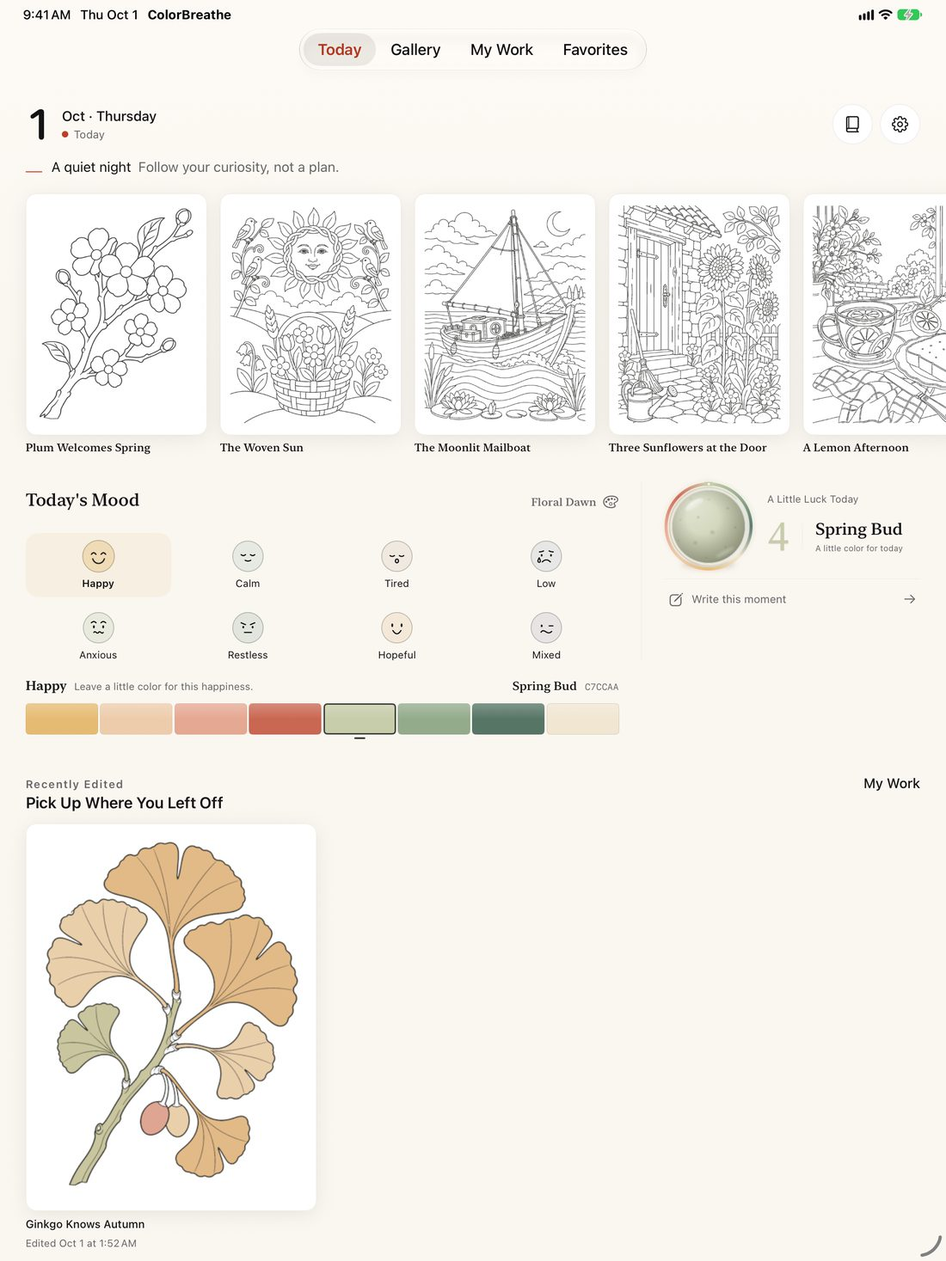
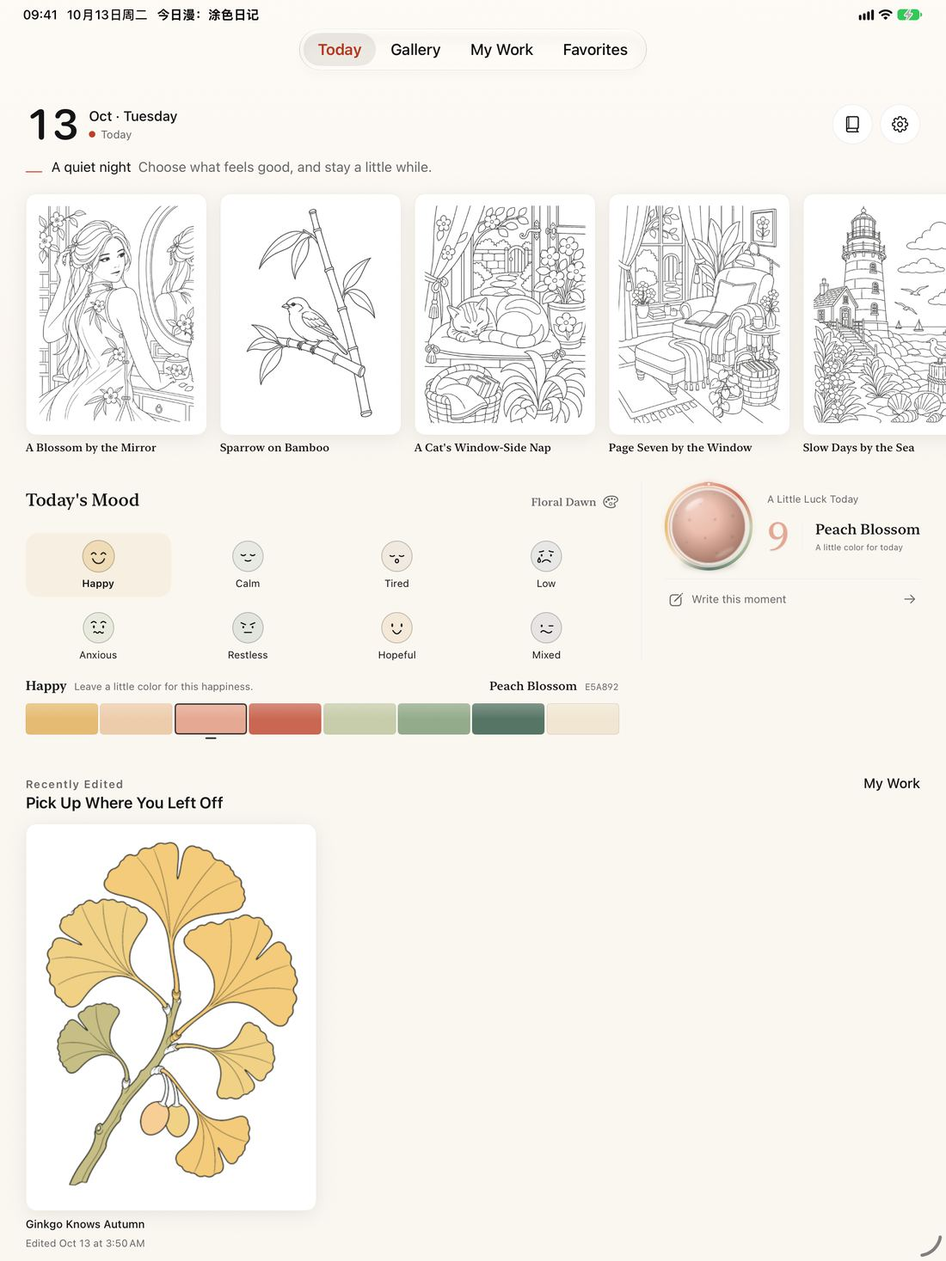
支持、隐私、条款与产品页更新到 2.2：14 本画册 168 幅画稿、辅助上色与彩珠弹画说明、截图换为 2.2
- 免费每日画稿改为 49 幅轮换；完整创作权限为 14 本 168 幅
- 新增辅助上色常见问题（中英），英文新增彩珠弹画说明（中国大陆商店不提供）
- 隐私政策列入辅助上色记录与次数；条款更新画稿与声音来源说明
- 首页与 iPad 截图换成 2.2 界面

diff --git a/en/terms.html b/en/terms.html
@@ -13,13 +13,13 @@
 </div></header>
 
 <main class="wrap"><h1>ColorBreathe Terms of Use</h1>
-<p>Updated September 26, 2026, for version 2.1. Version 2.0 remains the free historical release; version 2.1 introduces optional Full Access.</p>
-<p>The app uses <a href="https://www.apple.com/legal/internet-services/itunes/dev/stdeula/">Apple&#x27;s Standard End User License Agreement</a>. Artwork and audio sources and licenses are available in Settings → Artwork &amp; Sound Credits. Ensure you have permission to use images you import; the app does not transfer copyright in source material.</p>
-<p>Artwork and diaries are stored locally. Use Data &amp; Backup to preserve important content. Read our Privacy Policy for data handling details. Support: <a href="mailto:306116317@qq.com">306116317@qq.com</a>.</p><h2>Free features and Full Access</h2><p>Free access includes 12 starter drawings, one rotating daily page from a fixed 24-page selection, every brush, continued editing of works already started, diaries, backups and standard 2048-pixel PNG export without app branding. Replays and share cards include light app branding. New drawings outside the free selection, new blank canvases, photo/line-art imports and new copies of restricted works require Full Access. Full Access also includes 4096-pixel and transparent PNGs and the option to remove app branding from replays and share cards. Required artwork-license credits remain.</p><p>A drawing becomes a continued work when you actually paint in it; merely viewing or favoriting a drawing does not unlock future access. Trial expiry never deletes your drawings or diary. Existing works stay editable, but do not unlock new copies of otherwise restricted drawings.</p><h2>Plans, trial and renewal</h2><p>Mainland China plans are CNY 9.90 per month and CNY 49 per year. Lifetime access is CNY 99 for the first 90 days after the China launch, then CNY 199. US plans are USD 2.90 per month and USD 9.90 per year; new lifetime purchases are not offered in the US. Product availability, actual prices and scheduled offer dates are subject to Apple's purchase confirmation and storefront arrangements. Your Apple Account storefront determines the market, not the app's interface language. Changing storefronts does not revoke a lifetime purchase you already own.</p><p>Monthly and annual plans offer a 7-day free trial only when Apple confirms eligibility, once per subscription group and with your confirmation. Installing the app alone does not start a trial or a charge. After the trial, the selected subscription renews automatically at the displayed price unless cancelled at least 24 hours before the current period ends.</p><p>Lifetime access is a one-time purchase with no automatic renewal and includes future standard features and drawing collections in this app. Buying lifetime access does not cancel an existing subscription. Manage or cancel that subscription through your Apple Account to avoid overlapping charges. Family Sharing is not offered for these purchases.</p><h2>Invitation: one year of Full Access</h2><p>Open Settings → Full Access → Redeem Invitation Code and use an Apple offer code issued for this campaign. Redemption requires an internet connection and an Apple Account. Only an Apple-verified transaction unlocks access. Successful redemption grants one free year of Full Access from the Apple transaction date, measured as a calendar anniversary in UTC. Access returns to free features after that year, without automatic renewal or charges. Your artwork and diary remain.</p><p>The deadline for redeeming a code is separate from the one-year access period after redemption. Refer to the invitation terms and Apple's eligibility confirmation. Each Apple Account can redeem one code per offer; do not publicly share a one-time-use code. An invitation does not cancel or pause an existing auto-renewing subscription. Cancel that subscription in your Apple Account if you do not want its charges to continue.</p><h2>Restore, manage and refunds</h2><p>Open Settings → Full Access → Restore Purchases using the Apple Account used to buy. Manage subscriptions there or in Apple account settings. Purchase, invitation redemption and restore need access to Apple services; verified entitlements are cached on-device for offline use. An expired or refunded purchase returns to free features. If a purchase is awaiting approval, access begins only after approval. Apple manages refund requests at <a href="https://reportaproblem.apple.com/">Report a Problem</a>.</p><h2>Artwork and playful activities</h2><p>Built-in drawings include AI-assisted artwork. Sources and licenses are listed in Settings. Marble Art progress, daily goals and Bead Box keepsakes stay on the device. These activities and mood records are for everyday relaxation and do not provide diagnosis or treatment.</p></main>
+<p>Updated October 12, 2026, for version 2.2. Version 2.0 remains the free historical release; optional Full Access was introduced in version 2.1.</p>
+<p>The app uses <a href="https://www.apple.com/legal/internet-services/itunes/dev/stdeula/">Apple&#x27;s Standard End User License Agreement</a>. Built-in drawings are prepared for this project, including AI-assisted artwork and new compositions of classic stories. Piano, marble, brush and ambient sounds are composed and synthesized by project programs. Production and source information is available in Settings → Artwork &amp; Sound Credits. Ensure you have permission to use images you import; the app does not transfer copyright in source material.</p>
+<p>Artwork and diaries are stored locally. Use Data &amp; Backup to preserve important content. Read our Privacy Policy for data handling details. Support: <a href="mailto:306116317@qq.com">306116317@qq.com</a>.</p><h2>Free features and Full Access</h2><p>Free access includes 12 starter drawings, one free page each day from a rotating selection of 49 pages, every brush, continued editing of works already started, diaries, backups and standard 2048-pixel PNG export without app branding. Replays and share cards include light app branding. New drawings outside the free selection, new blank canvases, photo/line-art imports and new copies of restricted works require Full Access. Full Access also includes 4096-pixel and transparent PNGs and the option to remove app branding from replays and share cards. Required artwork-license credits remain.</p><p>A drawing becomes a continued work when you actually paint in it; merely viewing or favoriting a drawing does not unlock future access. Trial expiry never deletes your drawings or diary. Existing works stay editable, but do not unlock new copies of otherwise restricted drawings.</p><h2>Plans, trial and renewal</h2><p>Mainland China plans are CNY 9.90 per month and CNY 49 per year. Lifetime access is CNY 99 for the first 90 days after the China launch, then CNY 199. US plans are USD 2.90 per month and USD 9.90 per year; new lifetime purchases are not offered in the US. Product availability, actual prices and scheduled offer dates are subject to Apple's purchase confirmation and storefront arrangements. Your Apple Account storefront determines the market, not the app's interface language. Changing storefronts does not revoke a lifetime purchase you already own.</p><p>Monthly and annual plans offer a 7-day free trial only when Apple confirms eligibility, once per subscription group and with your confirmation. Installing the app alone does not start a trial or a charge. After the trial, the selected subscription renews automatically at the displayed price unless cancelled at least 24 hours before the current period ends.</p><p>Lifetime access is a one-time purchase with no automatic renewal and includes future standard features and drawing collections in this app. Buying lifetime access does not cancel an existing subscription. Manage or cancel that subscription through your Apple Account to avoid overlapping charges. Family Sharing is not offered for these purchases.</p><h2>Invitation: one year of Full Access</h2><p>Open Settings → Full Access → Redeem Invitation Code and use an Apple offer code issued for this campaign. Redemption requires an internet connection and an Apple Account. Only an Apple-verified transaction unlocks access. Successful redemption grants one free year of Full Access from the Apple transaction date, measured as a calendar anniversary in UTC. Access returns to free features after that year, without automatic renewal or charges. Your artwork and diary remain.</p><p>The deadline for redeeming a code is separate from the one-year access period after redemption. Refer to the invitation terms and Apple's eligibility confirmation. Each Apple Account can redeem one code per offer; do not publicly share a one-time-use code. An invitation does not cancel or pause an existing auto-renewing subscription. Cancel that subscription in your Apple Account if you do not want its charges to continue.</p><h2>Restore, manage and refunds</h2><p>Open Settings → Full Access → Restore Purchases using the Apple Account used to buy. Manage subscriptions there or in Apple account settings. Purchase, invitation redemption and restore need access to Apple services; verified entitlements are cached on-device for offline use. An expired or refunded purchase returns to free features. If a purchase is awaiting approval, access begins only after approval. Apple manages refund requests at <a href="https://reportaproblem.apple.com/">Report a Problem</a>.</p><h2>Artwork and playful activities</h2><p>Built-in drawings include AI-assisted artwork. Sources and licenses are listed in Settings. Marble Art progress, daily goals and Bead Box keepsakes stay on the device. These activities and mood records are for everyday relaxation and do not provide diagnosis or treatment.</p><h2>Assisted coloring</h2><p>Assisted coloring uses the same access as each drawing, with no separate subscription. Free drawings, the daily free page and works you have started can use it. Individual regions use reviewed suggested colors within the regular coloring canvas, sharing brushes, zoom, undo, redo, saving and export.</p></main>
 
 <footer><div class="wrap">
   <div class="links"><a href="support.html">Support</a><a href="privacy.html">Privacy</a><a href="terms.html">Terms</a><a href="https://sanctaz.github.io/colorbreathe-support/en/">About the app</a></div>
-  <p>ColorBreathe: Coloring Diary · 今日漫 · Version 2.1 · <a href="mailto:306116317@qq.com">306116317@qq.com</a> · © 2026 fanqi zheng</p>
+  <p>ColorBreathe: Coloring Diary · 今日漫 · Version 2.2 · <a href="mailto:306116317@qq.com">306116317@qq.com</a> · © 2026 fanqi zheng</p>
 </div></footer>
 </body>
 </html>

diff --git a/terms.html b/terms.html
@@ -13,13 +13,13 @@
 </div></header>
 
 <main class="wrap"><h1>今日漫使用条款</h1>
-<p>更新日期：2026-09-26，适用于版本 2.1。v2.0 为历史免费最终版；v2.1 新增可选的完整创作权限。</p>
-<p>本 App 采用 <a href="https://www.apple.com/legal/internet-services/itunes/dev/stdeula/">Apple 标准最终用户许可协议</a>。画稿与声音的来源及授权见 App 设置 → 画作与声音来源。导入图片时，请确保拥有相应使用权限；App 不转移原素材的版权。</p>
-<p>作品和日记在本机保存。请使用数据与备份保存重要内容。隐私及本机处理方式详见隐私政策。支持邮箱：<a href="mailto:306116317@qq.com">306116317@qq.com</a>。</p><h2>免费功能与完整创作权限</h2><p>免费版保留 12 幅入门画稿、固定 24 幅中每日轮换的一页、全部笔刷、已开始作品的继续编辑、日记、备份，以及不含 App 品牌标记的 2048 像素普通 PNG。回放视频与分享卡保留轻量 App 品牌标记。免费范围外的新画稿、新建自由画布、照片与线稿导入、受限画稿的新副本需要完整权限；完整权限也提供 4096 像素与透明 PNG，以及移除回放和分享卡 App 品牌标记的选项。素材授权要求的署名始终保留。</p><p>实际落笔或填色后，作品可作为已开始作品继续编辑；仅打开、预览或收藏不取得后续使用资格。试用到期不会删除作品或日记。保留的旧作品不解锁原本受限画稿的新副本。</p><h2>方案、试用与续费</h2><p>中国大陆方案为每月 ¥9.90、每年 ¥49；永久买断在中国区正式上线后的首 90 天为 ¥99，活动结束后调整为 ¥199。美国区为每月 US$2.90、每年 US$9.90，不提供新的买断购买。商品可用性、实际价格及活动日期以 Apple 购买确认页和商店安排为准。地区由 Apple 账户的 App Store 商店决定，切换 App 语言不改变购买地区或货币。已购买的买断权益不会因切换地区而取消。</p><p>月订阅与年订阅可向 Apple 确认符合资格的用户提供 7 天免费试用，每个订阅组限一次，必须经你确认。仅安装 App 不会开始试用或扣费。试用结束后按所选方案显示的价格自动续费；如不希望续费，请至少在当前周期结束前 24 小时取消。</p><p>买断为一次付款，不自动续费，包含本 App 后续标准功能与画册更新。买断不会自动取消已有订阅；请在 Apple 账户中管理和取消原订阅，避免重复扣费。这些购买不提供家人共享。</p><h2>邀请码：一年完整创作权限</h2><p>在设置 → 完整创作权限 → 兑换邀请码，使用本活动发放的 Apple 优惠兑换码。兑换需联网并使用 Apple 账户；只有 Apple 验证成功的交易才会解锁。成功兑换后，从 Apple 交易日期起可免费使用一年完整创作功能，按 UTC 公历周年计算；一年到期后回到免费功能，不自动续费、不自动扣款，作品和日记保留。</p><p>邀请码的可兑换截止日期与兑换后的一年使用期分别计算，以领取时说明和 Apple 确认的资格为准。每个 Apple 账户在同一优惠活动中限兑换一次；请勿公开一次性邀请码。邀请码不会取消或暂停已有的自动续期订阅；若不希望原订阅继续扣费，请自行在 Apple 账户中取消。</p><h2>恢复、管理与退款</h2><p>使用购买时的 Apple 账户，在设置 → 完整创作权限 → 恢复购买。可从同一页面或 Apple 账户设置管理订阅。购买、邀请码兑换及恢复需连接 Apple 服务；经验证的权限由 StoreKit 在本机缓存以支持离线使用。购买过期或退款后回到免费功能；待批准的购买仅在批准后解锁。退款由 Apple 处理，可前往 <a href="https://reportaproblem.apple.com/">报告问题</a>提交申请。</p><h2>画稿与互动内容</h2><p>内置画稿含 AI 辅助制作内容，来源与授权见设置。彩珠弹画进度、每日小目标及珠匣收藏保存在本机。互动玩法与心情记录用于日常放松，不提供诊断或治疗。</p></main>
+<p>更新日期：2026-10-12，适用于版本 2.2。v2.0 为历史免费最终版；可选的完整创作权限自 v2.1 起提供。</p>
+<p>本 App 采用 <a href="https://www.apple.com/legal/internet-services/itunes/dev/stdeula/">Apple 标准最终用户许可协议</a>。内置画稿为本项目制作，含 AI 辅助制作和古典故事新构图；钢琴、滚珠、笔刷及环境音由项目程序创作和合成。制作与来源说明见 App 设置 → 画作与声音来源。导入图片时，请确保拥有相应使用权限；App 不转移原素材的版权。</p>
+<p>作品和日记在本机保存。请使用数据与备份保存重要内容。隐私及本机处理方式详见隐私政策。支持邮箱：<a href="mailto:306116317@qq.com">306116317@qq.com</a>。</p><h2>免费功能与完整创作权限</h2><p>免费版保留 12 幅入门画稿、每天从 49 幅中轮换的一页免费画稿、全部笔刷、已开始作品的继续编辑、日记、备份，以及不含 App 品牌标记的 2048 像素普通 PNG。回放视频与分享卡保留轻量 App 品牌标记。免费范围外的新画稿、新建自由画布、照片与线稿导入、受限画稿的新副本需要完整权限；完整权限也提供 4096 像素与透明 PNG，以及移除回放和分享卡 App 品牌标记的选项。素材授权要求的署名始终保留。</p><p>实际落笔或填色后，作品可作为已开始作品继续编辑；仅打开、预览或收藏不取得后续使用资格。试用到期不会删除作品或日记。保留的旧作品不解锁原本受限画稿的新副本。</p><h2>方案、试用与续费</h2><p>中国大陆方案为每月 ¥9.90、每年 ¥49；永久买断在中国区正式上线后的首 90 天为 ¥99，活动结束后调整为 ¥199。美国区为每月 US$2.90、每年 US$9.90，不提供新的买断购买。商品可用性、实际价格及活动日期以 Apple 购买确认页和商店安排为准。地区由 Apple 账户的 App Store 商店决定，切换 App 语言不改变购买地区或货币。已购买的买断权益不会因切换地区而取消。</p><p>月订阅与年订阅可向 Apple 确认符合资格的用户提供 7 天免费试用，每个订阅组限一次，必须经你确认。仅安装 App 不会开始试用或扣费。试用结束后按所选方案显示的价格自动续费；如不希望续费，请至少在当前周期结束前 24 小时取消。</p><p>买断为一次付款，不自动续费，包含本 App 后续标准功能与画册更新。买断不会自动取消已有订阅；请在 Apple 账户中管理和取消原订阅，避免重复扣费。这些购买不提供家人共享。</p><h2>邀请码：一年完整创作权限</h2><p>在设置 → 完整创作权限 → 兑换邀请码，使用本活动发放的 Apple 优惠兑换码。兑换需联网并使用 Apple 账户；只有 Apple 验证成功的交易才会解锁。成功兑换后，从 Apple 交易日期起可免费使用一年完整创作功能，按 UTC 公历周年计算；一年到期后回到免费功能，不自动续费、不自动扣款，作品和日记保留。</p><p>邀请码的可兑换截止日期与兑换后的一年使用期分别计算，以领取时说明和 Apple 确认的资格为准。每个 Apple 账户在同一优惠活动中限兑换一次；请勿公开一次性邀请码。邀请码不会取消或暂停已有的自动续期订阅；若不希望原订阅继续扣费，请自行在 Apple 账户中取消。</p><h2>恢复、管理与退款</h2><p>使用购买时的 Apple 账户，在设置 → 完整创作权限 → 恢复购买。可从同一页面或 Apple 账户设置管理订阅。购买、邀请码兑换及恢复需连接 Apple 服务；经验证的权限由 StoreKit 在本机缓存以支持离线使用。购买过期或退款后回到免费功能；待批准的购买仅在批准后解锁。退款由 Apple 处理，可前往 <a href="https://reportaproblem.apple.com/">报告问题</a>提交申请。</p><h2>画稿与互动内容</h2><p>内置画稿含 AI 辅助制作内容，来源与授权见设置。彩珠弹画进度、每日小目标及珠匣收藏保存在本机。互动玩法与心情记录用于日常放松，不提供诊断或治疗。</p><h2>辅助上色</h2><p>辅助上色与画作使用同一权限，无需单独订阅。免费画稿、每日免费稿和已开始的作品可使用此功能。轻点区域按已审阅参考配色独立落色，与普通涂色共用画笔、缩放、撤销重做、保存与导出。</p></main>
 
 <footer><div class="wrap">
   <div class="links"><a href="support.html">支持</a><a href="privacy.html">隐私政策</a><a href="terms.html">使用条款</a><a href="https://sanctaz.github.io/colorbreathe-support/">产品介绍</a></div>
-  <p>今日漫：涂色日记 · ColorBreathe · 版本 2.1 · <a href="mailto:306116317@qq.com">306116317@qq.com</a> · © 2026 fanqi zheng</p>
+  <p>今日漫：涂色日记 · ColorBreathe · 版本 2.2 · <a href="mailto:306116317@qq.com">306116317@qq.com</a> · © 2026 fanqi zheng</p>
 </div></footer>
 </body>
 </html>

diff --git a/en/support.html b/en/support.html
@@ -14,7 +14,7 @@
 </div></header>
 
 <main class="wrap">
-  <p class="eyebrow">ColorBreathe: Coloring Diary · 今日漫 · Version 2.1</p>
+  <p class="eyebrow">ColorBreathe: Coloring Diary · 今日漫 · Version 2.2</p>
   <h1>Help &amp; Support</h1>
   <p class="lead">Questions about purchases, backups or a feature? Start with the answers below. If you can't find what you need, email us.</p>
 
@@ -42,12 +42,12 @@
       <p>iPhone or iPad with iOS / iPadOS 26 or later. Compatible iPads support Apple Pencil in portrait and landscape.</p>
     </div></details>
     <details><summary>What is free?</summary><div>
-      <p>Free access includes 12 starter drawings (Birds on Branches), one rotating daily page from a fixed 24-page selection, every brush, continued editing of works you have started, the diary, backups and standard 2048-pixel PNG export without app branding. Replays and share cards include light app branding.</p>
+      <p>Free access includes 12 starter drawings (Birds on Branches), one free page each day from a rotating selection of 49 pages, every brush, continued editing of works you have started, the diary, backups and standard 2048-pixel PNG export without app branding. Replays and share cards include light app branding.</p>
       <p>A drawing becomes a work you can keep editing once you actually paint in it; viewing, previewing or favoriting it does not count.</p>
     </div></details>
     <details><summary>What does Full Access include?</summary><div>
       <ul>
-        <li>All 11 collections and 132 drawings</li>
+        <li>All 14 collections and 168 drawings</li>
         <li>New blank canvases and importing your own photos or line art</li>
         <li>4096-pixel and transparent PNG export</li>
         <li>The option to remove app branding from replays and share cards</li>
@@ -108,6 +108,14 @@
 
   <h2>Coloring, importing and exporting</h2>
   <div class="faq">
+    <details><summary>How does assisted coloring work?</summary><div>
+      <p>Turn on Assisted coloring in a drawing, roll the color pearl to pick a region, then tap that region on the canvas to fill it from the drawing's reference colors. Each drawing includes free assistance for 10% of its regions. Your brushes, undo, redo and free coloring stay available, and you can switch between assistance and your own colors at any time.</p>
+      <p>When a drawing's assistance runs out, the app shows what you can do next. Regions already filled stay in your work.</p>
+    </div></details>
+    <details><summary>What is Marble Art?</summary><div>
+      <p>Marble Art turns a drawing into a wall of colored beads. Hold the pearl to fire, drag to aim, bank marbles off the walls, hit golden rings to charge Ripple, Chase and Meteor, and set off burst beads. A round lasts up to three minutes on a Breeze, Steady or Tough board; knocked-out beads are collected in your Bead Box, and the picture comes back when the round ends.</p>
+      <p>A round played on one of your works adds assisted fills, about 30% of that drawing's regions for a well-played round, plus a bonus for clearing it early. Fills can be used on any drawing. Demo rounds and Watch It Play earn none. Marble Art is not offered on the China mainland App Store.</p>
+    </div></details>
     <details><summary>How do I import my own line art?</summary><div>
       <p>In My Work, create a blank canvas or import line art from the camera, Photos or Files. Region detection works best with closed outlines; adjust cropping, threshold or inversion, or simply paint with brushes. The camera needs a physical device and camera permission, which you can turn back on in system Settings. The photo picker only shares the images you select.</p>
     </div></details>
@@ -146,7 +154,7 @@
 
 <footer><div class="wrap">
   <div class="links"><a href="support.html">Support</a><a href="privacy.html">Privacy</a><a href="terms.html">Terms</a><a href="https://sanctaz.github.io/colorbreathe-support/en/">About the app</a></div>
-  <p>ColorBreathe: Coloring Diary · 今日漫 · Version 2.1 · Updated October 1, 2026 · © 2026 fanqi zheng</p>
+  <p>ColorBreathe: Coloring Diary · 今日漫 · Version 2.2 · Updated October 12, 2026 · © 2026 fanqi zheng</p>
 </div></footer>
 </body>
 </html>

diff --git a/en/index.html b/en/index.html
@@ -4,7 +4,7 @@
 <meta charset="utf-8">
 <meta name="viewport" content="width=device-width,initial-scale=1">
 <title>ColorBreathe: Coloring Diary — Color slowly. Keep your day.</title>
-<meta name="description" content="ColorBreathe is a coloring diary for iPhone and iPad: 11 collections, 132 drawings and ten brushes, plus words, moods and photos to remember your day. No ads, no sign-up; your artwork and diary stay on your device.">
+<meta name="description" content="ColorBreathe is a coloring diary for iPhone and iPad: 14 collections, 168 drawings and ten brushes, plus words, moods and photos to remember your day. No ads, no sign-up; your artwork and diary stay on your device.">
 <meta property="og:title" content="ColorBreathe: Coloring Diary">
 <meta property="og:description" content="Color slowly. Keep your day. A coloring diary for iPhone and iPad.">
 <meta property="og:image" content="https://sanctaz.github.io/colorbreathe-support/assets/en/01-editor.jpg">
@@ -31,7 +31,7 @@
         <a class="btn" href="#shots">See the screens</a>
       </div>
       <ul class="facts">
-        <li>11 collections</li><li>132 drawings</li><li>10 brushes</li><li>No ads</li><li>No sign-up</li><li>iPad &amp; Apple Pencil</li>
+        <li>14 collections</li><li>168 drawings</li><li>10 brushes</li><li>No ads</li><li>No sign-up</li><li>iPad &amp; Apple Pencil</li>
       </ul>
     </div>
     <div class="device"><img src="../assets/en/01-editor.jpg" alt="The coloring screen with a ginkgo drawing colored in warm yellows and soft greens" width="660" height="1434"></div>
@@ -48,8 +48,8 @@
 
     <section class="feature">
       <div class="copy">
-        <h2>11 collections, 132 drawings</h2>
-        <p>A Time for Flowers, Birds on Branches, Woodland Companions, Cozy Corners, Sea and Sky, Seasonal Delights, Windows and Patterns, Tiny Fantasies, Country Lanes, Food and Craft and Storybook Wonder — from a single branch to a whole cottage, each with an estimated coloring time.</p>
+        <h2>14 collections, 168 drawings</h2>
+        <p>A Time for Flowers, Birds on Branches, Twelve Animals through the Seasons, A Cat at Home, Women by the Garden, Woodland Companions, Cozy Corners, Sea and Sky, Seasonal Delights, Windows and Patterns, Tiny Fantasies, Country Lanes, Food and Craft and Storybook Wonder — from a single branch to a whole cottage, each with an estimated coloring time.</p>
         <p>12 starter drawings and a daily page are free.</p>
       </div>
       <div class="device"><img src="../assets/en/03-gallery.jpg" alt="Gallery: featured drawings and collection filters" width="660" height="1434" loading="lazy"></div>
@@ -59,6 +59,7 @@
       <div class="copy">
         <h2>Not sure about colors? Follow a reference</h2>
         <p>Every drawing comes with a color reference. Drag the slider to compare line art with the colored preview, or borrow just a few of its colors and make your own version.</p>
+        <p>Or turn on Assisted coloring: roll the color pearl to a region and tap it to fill from the reference. 10% of every drawing is free, and Marble Art rounds add more fills (not on the China mainland App Store).</p>
       </div>
       <div class="device"><img src="../assets/en/04-artwork.jpg" alt="Drawing detail: line art and color reference side by side" width="660" height="1434" loading="lazy"></div>
     </section>
@@ -108,7 +109,7 @@
       <figure><div class="device"><img src="../assets/en/04-artwork.jpg" alt="Color reference" width="660" height="1434" loading="lazy"></div><figcaption>Color reference</figcaption></figure>
       <figure><div class="device"><img src="../assets/en/05-diary.jpg" alt="Diary" width="660" height="1434" loading="lazy"></div><figcaption>Diary</figcaption></figure>
     </div>
-    <p class="note">Requires iOS / iPadOS 26 or later. Screens from version 2.1.</p>
+    <p class="note">Requires iOS / iPadOS 26 or later. Screens from version 2.2.</p>
   </section>
 </main>
 

diff --git a/index.html b/index.html
@@ -4,7 +4,7 @@
 <meta charset="utf-8">
 <meta name="viewport" content="width=device-width,initial-scale=1">
 <title>今日漫：涂色日记 — 慢慢涂色，记下今天的心情</title>
-<meta name="description" content="今日漫是 iPhone 与 iPad 上的涂色日记：11 本画册、132 幅画稿、十种画笔，配上文字、心情和照片记下今天。无广告、无需注册，作品和日记只保存在你的设备上。">
+<meta name="description" content="今日漫是 iPhone 与 iPad 上的涂色日记：14 本画册、168 幅画稿、十种画笔，配上文字、心情和照片记下今天。无广告、无需注册，作品和日记只保存在你的设备上。">
 <meta property="og:title" content="今日漫：涂色日记">
 <meta property="og:description" content="慢慢涂色，记下今天的心情。iPhone 与 iPad 上的涂色日记。">
 <meta property="og:image" content="https://sanctaz.github.io/colorbreathe-support/assets/zh/01-editor.jpg">
@@ -31,7 +31,7 @@
         <a class="btn" href="#shots">看看界面</a>
       </div>
       <ul class="facts">
-        <li>11 本画册</li><li>132 幅画稿</li><li>10 种画笔</li><li>无广告</li><li>不用注册</li><li>支持 iPad 与 Apple Pencil</li>
+        <li>14 本画册</li><li>168 幅画稿</li><li>10 种画笔</li><li>无广告</li><li>不用注册</li><li>支持 iPad 与 Apple Pencil</li>
       </ul>
     </div>
     <div class="device"><img src="assets/zh/01-editor.jpg" alt="涂色界面：一幅银杏画稿已经涂上暖黄与浅绿" width="660" height="1434"></div>
@@ -48,8 +48,8 @@
 
     <section class="feature">
       <div class="copy">
-        <h2>11 本画册，132 幅画稿</h2>
-        <p>花间有时、枝上清音、林间伙伴、居家小憩、海天漫游、四时雅趣、花窗纹样、幻想微境、田园街巷、食光手作、童话漫游——从一枝花到一整间小屋，每幅都标了大约要涂多久。</p>
+        <h2>14 本画册，168 幅画稿</h2>
+        <p>花间有时、枝上清音、生肖 · 四时图、猫的一天、花影人物、林间伙伴、居家小憩、海天漫游、四时雅趣、花窗纹样、幻想微境、田园街巷、食光手作、童话漫游——从一枝花到一整间小屋，每幅都标了大约要涂多久。</p>
         <p>免费就能涂 12 幅入门画稿和每天轮换的一页。</p>
       </div>
       <div class="device"><img src="assets/zh/03-gallery.jpg" alt="画册页：精选画稿与分册筛选" width="660" height="1434" loading="lazy"></div>
@@ -59,6 +59,7 @@
       <div class="copy">
         <h2>不会配色？照着参考涂</h2>
         <p>每幅画稿都附一份配色参考。拖动滑块就能对比线稿和上色效果，也可以只借用它的几种颜色，涂出你自己的版本。</p>
+        <p>也可以打开「辅助上色」：滚动色珠选中区域，轻点画面就按参考配色填好，每幅画免费辅助 10% 的区域。</p>
       </div>
       <div class="device"><img src="assets/zh/04-artwork.jpg" alt="画稿详情：线稿与配色参考左右对比" width="660" height="1434" loading="lazy"></div>
     </section>
@@ -108,7 +109,7 @@
       <figure><div class="device"><img src="assets/zh/04-artwork.jpg" alt="配色参考" width="660" height="1434" loading="lazy"></div><figcaption>配色参考</figcaption></figure>
       <figure><div class="device"><img src="assets/zh/05-diary.jpg" alt="日记" width="660" height="1434" loading="lazy"></div><figcaption>日记</figcaption></figure>
     </div>
-    <p class="note">需要 iOS / iPadOS 26 或更高版本。界面截自 2.1 版本。</p>
+    <p class="note">需要 iOS / iPadOS 26 或更高版本。界面截自 2.2 版本。</p>
   </section>
 </main>
 

diff --git a/support.html b/support.html
@@ -14,7 +14,7 @@
 </div></header>
 
 <main class="wrap">
-  <p class="eyebrow">今日漫：涂色日记 · ColorBreathe · 版本 2.1</p>
+  <p class="eyebrow">今日漫：涂色日记 · ColorBreathe · 版本 2.2</p>
   <h1>帮助与支持</h1>
   <p class="lead">想了解购买、备份或某个功能，先看下面的常见问题；没找到答案，就直接写信给我们。</p>
 
@@ -42,12 +42,12 @@
       <p>iPhone 或 iPad，iOS / iPadOS 26 或更高版本。兼容的 iPad 可以使用 Apple Pencil，横竖屏都能涂。</p>
     </div></details>
     <details><summary>免费能用什么？</summary><div>
-      <p>免费版包括 12 幅入门画稿（枝上清音）、固定 24 幅中每天轮换的一页、全部笔刷、已开始作品的继续编辑、日记、备份，以及不带 App 品牌标记的 2048 像素普通 PNG 导出。回放视频与分享卡保留轻量的 App 品牌标记。</p>
+      <p>免费版包括 12 幅入门画稿（枝上清音）、每天从 49 幅中轮换的一页免费画稿、全部笔刷、已开始作品的继续编辑、日记、备份，以及不带 App 品牌标记的 2048 像素普通 PNG 导出。回放视频与分享卡保留轻量的 App 品牌标记。</p>
       <p>在一幅画稿上实际落笔或填色后，它就成为可以继续编辑的作品；只打开、预览或收藏不算。</p>
     </div></details>
     <details><summary>完整创作权限包含什么？</summary><div>
       <ul>
-        <li>全部 11 本画册、132 幅画稿</li>
+        <li>全部 14 本画册、168 幅画稿</li>
         <li>新建空白画布，用照片或线稿导入自己的画</li>
         <li>4096 像素与透明背景 PNG 导出</li>
         <li>可去掉回放视频与分享卡上的 App 品牌标记</li>
@@ -108,6 +108,10 @@
 
   <h2>涂色、导入与导出</h2>
   <div class="faq">
+    <details><summary>辅助上色怎么用？</summary><div>
+      <p>在画稿里打开「辅助上色」，滚动色珠选中一个区域，再轻点画面上的这个区域，就按画稿的参考配色填好。每幅画可以免费辅助其 10% 的区域。笔刷、撤销、重做和自由上色都照常可用，随时可以在辅助与自己配色之间切换。</p>
+      <p>这幅画的辅助额度用完后，界面会说明接下来可以怎么做；已经填好的区域会留在作品里。</p>
+    </div></details>
     <details><summary>怎么导入自己的线稿？</summary><div>
       <p>在「我的作品」新建空白画布，或通过相机、照片、「文件」导入线稿。区域识别取决于线条是否闭合；效果不理想时，可以调整裁切、阈值或反相，也可以直接用画笔涂。相机需要真机和相机权限；如果之前拒绝过，可在系统「设置」里重新开启。照片选择器只提供你选中的图片。</p>
     </div></details>
@@ -146,7 +150,7 @@
 
 <footer><div class="wrap">
   <div class="links"><a href="support.html">支持</a><a href="privacy.html">隐私政策</a><a href="terms.html">使用条款</a><a href="https://sanctaz.github.io/colorbreathe-support/">产品介绍</a></div>
-  <p>今日漫：涂色日记 · ColorBreathe · 版本 2.1 · 更新于 2026-10-01 · © 2026 fanqi zheng</p>
+  <p>今日漫：涂色日记 · ColorBreathe · 版本 2.2 · 更新于 2026-10-12 · © 2026 fanqi zheng</p>
 </div></footer>
 </body>
 </html>

diff --git a/en/privacy.html b/en/privacy.html
@@ -16,7 +16,7 @@
 <main class="wrap">
   <p class="eyebrow">ColorBreathe: Coloring Diary · 今日漫</p>
   <h1>Privacy Policy</h1>
-  <p class="meta">Updated October 1, 2026 · Applies to version 2.1 · Contact: <a href="mailto:306116317@qq.com">306116317@qq.com</a></p>
+  <p class="meta">Updated October 12, 2026 · Applies to version 2.2 · Contact: <a href="mailto:306116317@qq.com">306116317@qq.com</a></p>
 
   <div class="callout"><p><strong>In short: ColorBreathe collects no data.</strong> There is no account, no advertising, no analytics SDK and no tracking across apps or websites. Your artwork, diary and photos stay on your device and are never sent to us.</p></div>
 
@@ -27,7 +27,7 @@
   </div>
 
   <h2>On-device content</h2>
-  <p style="margin-top:12px">ColorBreathe requires no account and includes no ads or analytics SDKs. We do not track you across apps or websites. Artwork, strokes, layers, palettes, favorites, moods, diary text, attached photos, drafts, Marble Art progress, Bead Box keepsakes and preferences are processed and stored on your device. The app does not send this content to the developer and does not offer automatic cloud sync.</p>
+  <p style="margin-top:12px">ColorBreathe requires no account and includes no ads or analytics SDKs. We do not track you across apps or websites. Artwork, strokes, layers, palettes, favorites, moods, diary text, attached photos, drafts, assisted-coloring use and fills, Marble Art progress, Bead Box keepsakes and preferences are processed and stored on your device. The app does not send this content to the developer and does not offer automatic cloud sync.</p>
 
   <h2>System permissions at a glance</h2>
   <div class="table"><table>
@@ -74,7 +74,7 @@
 
 <footer><div class="wrap">
   <div class="links"><a href="support.html">Support</a><a href="privacy.html">Privacy</a><a href="terms.html">Terms</a><a href="https://sanctaz.github.io/colorbreathe-support/en/">About the app</a></div>
-  <p>ColorBreathe: Coloring Diary · 今日漫 · Version 2.1 · © 2026 fanqi zheng</p>
+  <p>ColorBreathe: Coloring Diary · 今日漫 · Version 2.2 · © 2026 fanqi zheng</p>
 </div></footer>
 </body>
 </html>

diff --git a/privacy.html b/privacy.html
@@ -16,7 +16,7 @@
 <main class="wrap">
   <p class="eyebrow">今日漫：涂色日记 · ColorBreathe</p>
   <h1>隐私政策</h1>
-  <p class="meta">更新日期：2026-10-01 · 适用于版本 2.1 · 联系邮箱：<a href="mailto:306116317@qq.com">306116317@qq.com</a></p>
+  <p class="meta">更新日期：2026-10-12 · 适用于版本 2.2 · 联系邮箱：<a href="mailto:306116317@qq.com">306116317@qq.com</a></p>
 
   <div class="callout"><p><strong>一句话：今日漫不收集你的数据。</strong>没有账号、没有广告、没有统计 SDK，也不做跨 App 或跨网站跟踪；你的作品、日记和照片只保存在你的设备上，不会发给我们。</p></div>
 
@@ -27,7 +27,7 @@
   </div>
 
   <h2>本机处理</h2>
-  <p style="margin-top:12px">今日漫不要求账号，不包含广告或分析 SDK，不进行跨 App 或跨网站跟踪。作品、笔迹、图层、色盘、收藏、心情、文字日记、照片附件、草稿、彩珠弹画进度、珠匣收藏和偏好在设备上处理与保存。App 不把这些本地内容发送给发布者，也不提供账号式云同步。</p>
+  <p style="margin-top:12px">今日漫不要求账号，不包含广告或分析 SDK，不进行跨 App 或跨网站跟踪。作品、笔迹、图层、色盘、收藏、心情、文字日记、照片附件、草稿、辅助上色记录与次数、彩珠弹画进度、珠匣收藏和偏好在设备上处理与保存。App 不把这些本地内容发送给发布者，也不提供账号式云同步。</p>
 
   <h2>系统权限一览</h2>
   <div class="table"><table>
@@ -74,7 +74,7 @@
 
 <footer><div class="wrap">
   <div class="links"><a href="support.html">支持</a><a href="privacy.html">隐私政策</a><a href="terms.html">使用条款</a><a href="https://sanctaz.github.io/colorbreathe-support/">产品介绍</a></div>
-  <p>今日漫：涂色日记 · ColorBreathe · 版本 2.1 · © 2026 fanqi zheng</p>
+  <p>今日漫：涂色日记 · ColorBreathe · 版本 2.2 · © 2026 fanqi zheng</p>
 </div></footer>
 </body>
 </html>
